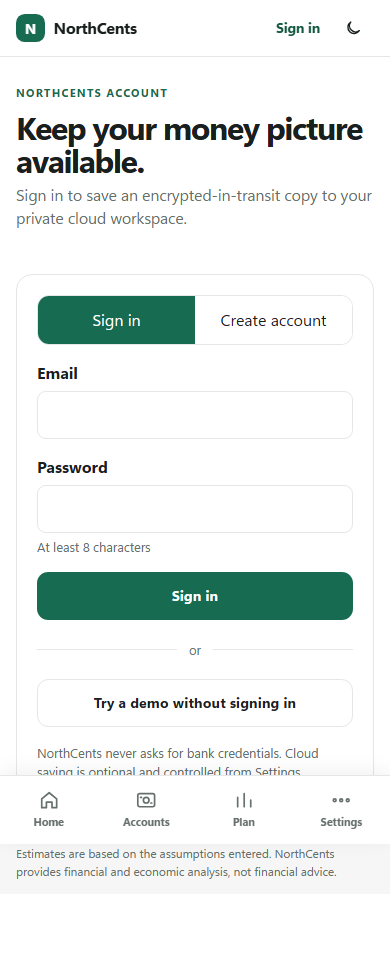
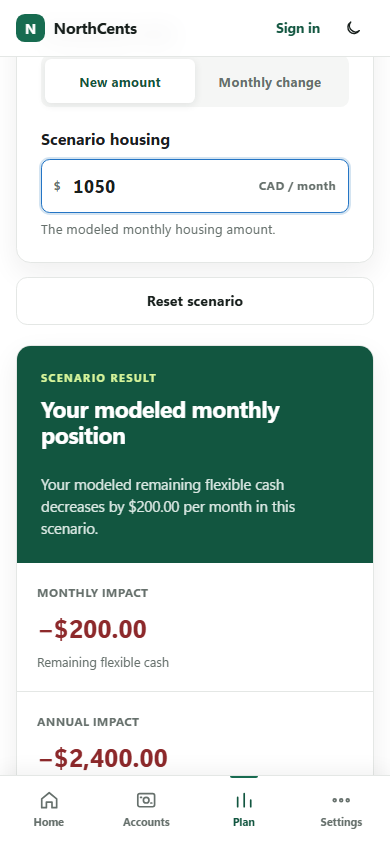
Improve README and product screenshots

diff --git a/README.md b/README.md
@@ -2,142 +2,67 @@
 
 **Your money, with direction.**
 
-NorthCents is a browser-based personal-money workspace and financial scenario
-explorer. Users can manually record where their money is held, what they owe,
-and examine how one explicit monthly assumption could change their position.
+NorthCents is a privacy-first personal money app for tracking accounts,
+planning monthly spending, and testing clear what-if scenarios. It uses exact
+integer-cent calculations and keeps local data in the browser unless the user
+explicitly chooses cloud backup.
 
-## Preview
+## Product preview
 
-![NorthCents synthetic demo profiles](docs/screenshots/northcents-desktop.png)
+![NorthCents scenario analysis on desktop](docs/screenshots/northcents-desktop.png)
 
 <p align="center">
-  <img src="docs/screenshots/northcents-mobile.png" alt="NorthCents mobile sign-in experience" width="390" />
+  <img src="docs/screenshots/northcents-mobile.png" alt="NorthCents scenario result on mobile" width="390" />
 </p>
 
-It is an educational analysis tool, not financial advice. It does not predict
-economic conditions or judge whether a decision is good or bad.
+## Highlights
 
-## What exists today
+- Manually track cash, bank, investment, crypto, and debt accounts.
+- See derived spendable cash, assets, liabilities, and net worth.
+- Build a monthly plan for essentials, savings, goals, and flexible spending.
+- Model housing, income, cost-of-living, and savings changes.
+- Review transparent monthly and annual impacts without financial advice.
+- Use synthetic demos without creating an account.
+- Work locally by default, with optional Supabase authentication and backup.
+- Navigate a responsive, keyboard-accessible interface on phone or desktop.
 
-- Four audited, fully synthetic demo profiles.
-- Manually entered banks, platforms, assets, and liabilities grouped by place.
-- Derived spendable cash, total assets, liabilities, and net worth.
-- A five-field custom baseline using monthly take-home income, housing, other
-  monthly expenses, debt payments, and planned savings.
-- Housing, income, cost-of-living, and planned-savings scenarios.
-- Current-versus-scenario comparisons, monthly and annual impacts, ratios, and
-  percentage-point changes.
-- Transparent formulas, substituted calculations, limitations, and fixture
-  provenance.
-- Responsive, keyboard-accessible UI with automated WCAG A/AA checks.
-- Optional email authentication and user-controlled cloud workspace backup
-  through Supabase.
-- Versioned browser-local persistence using local storage and IndexedDB, with
-  validation, migration, recovery, export/import foundations, and deletion.
+## Built with
 
-NorthCents requires no bank connection. It can run without signing in, in which
-case manually entered accounts and custom baselines remain in the browser.
-Signed-in users can explicitly save or restore a private cloud workspace.
-Scenario experiments are transient. Demo profiles are constructed examples,
-not real people or statistical averages.
+Next.js, React, TypeScript, Supabase, IndexedDB, Zod, Vitest, React Testing
+Library, Playwright, and axe-core.
 
-## Brand migration compatibility
-
-NorthCents was previously named Monevero and, before that, FinScope. Existing browser data remains valid:
-the original `finscope:baseline:v1` local-storage key and `finscope` IndexedDB
-database name are deliberately retained as stable persistence identifiers.
-New local backup files use `northcents-local-export`; imports continue to accept
-the previous `monevero-local-export` and `finscope-local-export` envelopes.
-These legacy strings are data compatibility contracts, not visible product
-branding.
-
-See [the implementation blueprint](docs/implementation-blueprint.md) for the
-product contract and [the methodology page](src/app/methodology/page.tsx) for
-the implemented formulas and limitations.
-
-For code ownership and dependency boundaries, see
-[the architecture guide](docs/architecture.md).
-
-## Technology
-
-- Next.js App Router, React, and strict TypeScript
-- Pure TypeScript financial domain engine using integer cents
-- Zod boundary and storage validation
-- Vitest and React Testing Library
-- Playwright and `@axe-core/playwright`
-- ESLint and Prettier
-
-Supabase Auth and PostgreSQL provide optional accounts and cloud workspace
-backup. IndexedDB remains the on-device source used by the app. No analytics,
-banking connection, or external financial-data service is included.
-
-## Local development
-
-Requirements: a current Node.js release compatible with the pinned Next.js
-version and npm.
+## Run locally
 
 ```bash
 npm ci
 npm run dev
 ```
 
-Open `http://localhost:3000`.
+Open [http://localhost:3000](http://localhost:3000). The app works without
+environment variables in local/demo mode. Optional cloud features are described
+in [docs/supabase-setup.md](docs/supabase-setup.md).
 
-The app works locally without environment variables. To enable sign-up, sign-in,
-and cloud backup, follow [the Supabase setup guide](docs/supabase-setup.md).
-
-For production setup and post-deployment checks, see
-[the deployment guide](docs/deployment.md).
-
-## Verification commands
+## Verify
 
 ```bash
-# Unit and component tests
-npm test
-npm run test:unit
-npm run test:components
-
-# Browser, keyboard, viewport, privacy, and axe accessibility tests
+npm run check
 npm run test:e2e
 npm run test:a11y
-
-# Static and production checks
-npm run typecheck
-npm run lint
-npm run format:check
-npm run build
-
-# Combined non-browser quality command
-npm run check
-
-# Dependency advisory review
-npm audit --audit-level=low
 ```
 
-Playwright starts the application automatically. Browser binaries can be
-installed with `npx playwright install` when needed.
+## Privacy
 
-## Repository guide
+NorthCents never asks for bank credentials and includes no bank connection,
+analytics, advertising, or financial-data API. Local financial data stays in
+the browser. Cloud transfer occurs only when a signed-in user explicitly saves
+or restores a workspace.
 
-- `src/domain/`: deterministic financial calculations and validation contracts
-- `src/data/`: audited fixtures and methodology metadata
-- `src/components/`: baseline, scenario, result, and shared UI
-- `src/storage/`: versioned browser-storage contract
-- `src/v2/domain/`: V2 account, workspace, date, money, and event contracts
-- `src/v2/storage/`: validated browser-local IndexedDB repositories
-- `tests/unit/`: financial, validation, storage, and boundary tests
-- `tests/components/`: React interaction and explanation tests
-- `tests/e2e/`: browser flows, accessibility, privacy, and responsive checks
-- `docs/release-checklist.md`: automated and manual release checks
-- `docs/release-readiness.md`: evidence-based readiness assessment
+## Documentation
 
-## Future work
+- [Architecture](docs/architecture.md)
+- [Implementation blueprint](docs/implementation-blueprint.md)
+- [Deployment guide](docs/deployment.md)
+- [Supabase setup](docs/supabase-setup.md)
 
-Potential later phases may add carefully sourced Canadian economic context.
-That work is not part of the current product and must not send personal
-financial inputs to an external service.
-
-## Disclaimer
-
-NorthCents provides deterministic financial scenario analysis based on entered
-assumptions. It does not provide financial advice.
+NorthCents provides educational financial and economic analysis—not financial
+advice.
